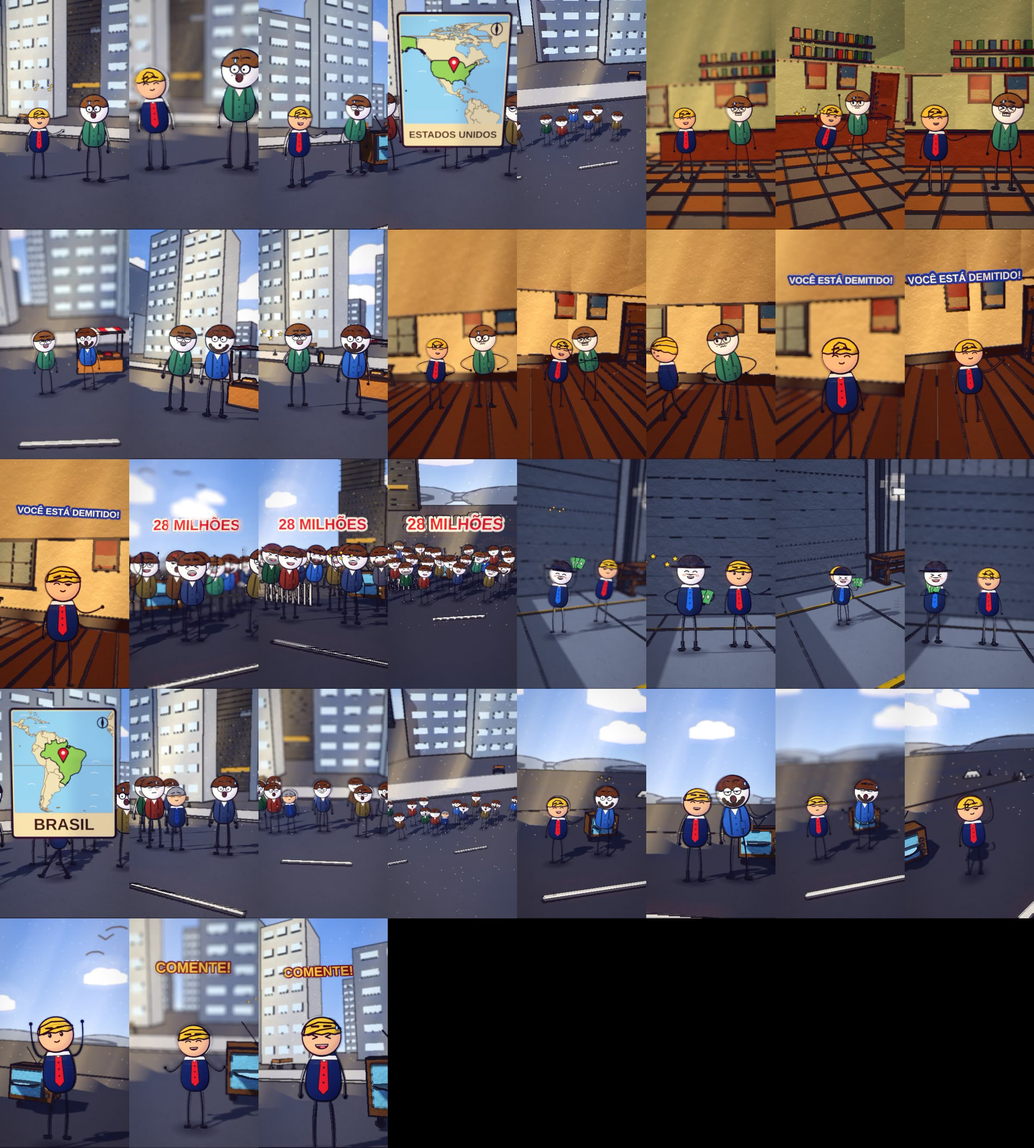
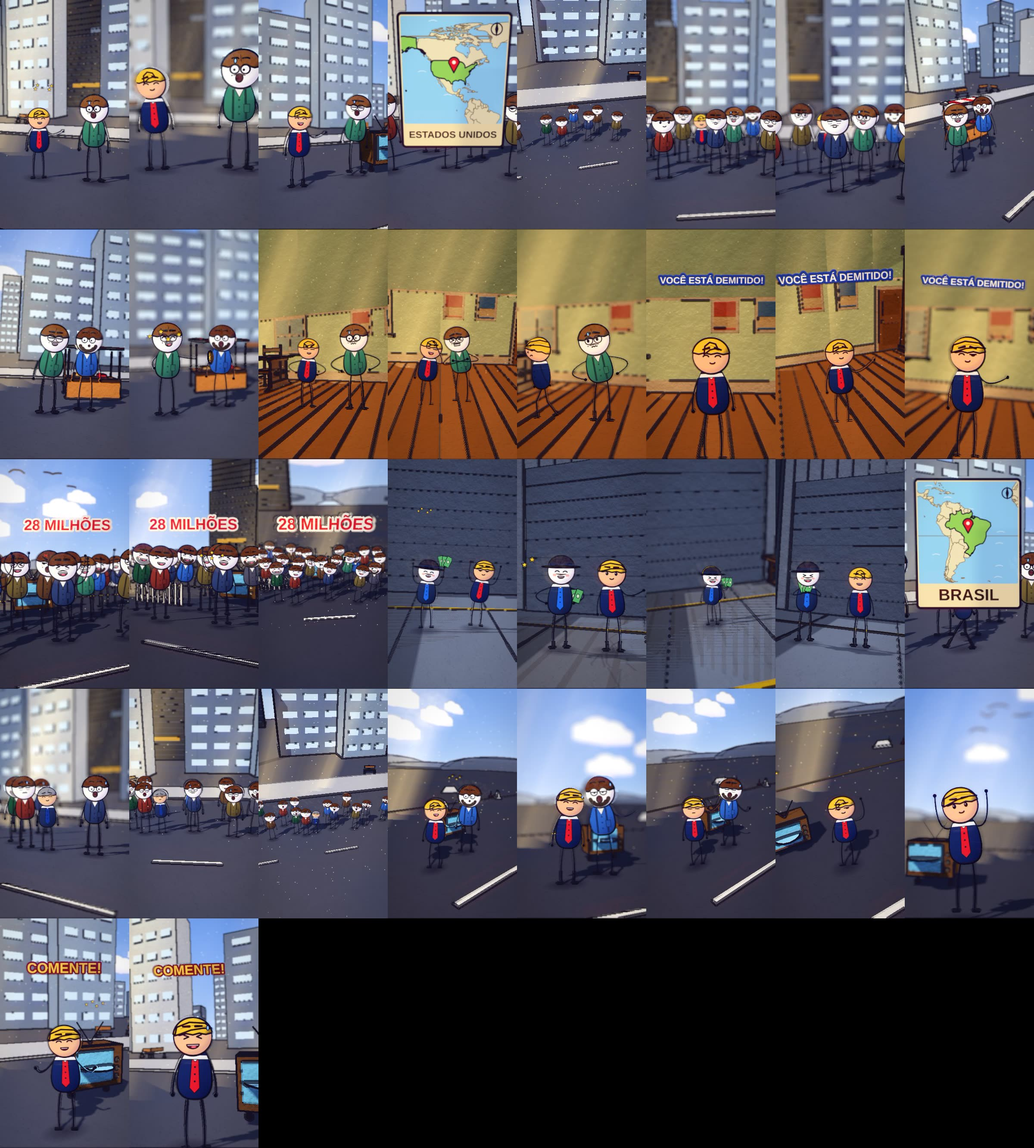
aprendiz2004: storyboard aprovado
Claude-Session: https://claude.ai/code/session_01HE8Dy2wiQov2uhW6ZYikBX

diff --git a/ferramenta-shorts/web/story.js b/ferramenta-shorts/web/story.js
@@ -51,6 +51,7 @@ const SPEC = {
 };
 
 // FOLHA3 e6951295b32f 34 acoes=34 faltando=0
+SPEC.fit = {"b6":1.254,"b6_1":1.12,"b8":1.254,"b8_1":1.12};
 // ===== STORY RUNTIME (generic): turns a declarative SPEC (stories/<id>.spec.js, concatenated before this file) into the story.js interface the engine expects =====
 import { camFromKeys, clamp, lerp, ramp, q, blinkAt, idle, M } from './motion.js';
 export const FPS = 30, TOTAL = SPEC.total, DECK = 6;

diff --git a/ferramenta-shorts/stories/aprendiz2004/fit.js b/ferramenta-shorts/stories/aprendiz2004/fit.js
@@ -1,0 +1,1 @@
+SPEC.fit = {"b6":1.254,"b6_1":1.12,"b8":1.254,"b8_1":1.12};

diff --git a/ferramenta-shorts/stories/aprendiz2004/revisao_storyboard.md b/ferramenta-shorts/stories/aprendiz2004/revisao_storyboard.md
@@ -1,0 +1,13 @@
+pesquisa: o quadro de referencias mostra Donald Trump de terno azul-marinho e gravata vermelha com cabelo loiro, Roberto Justus de cabelo grisalho e terno, barraca de limonada com cerca branca e prancheta; comparei com Trump loiro de terno azul e gravata vermelha, Justus grisalho de gravata azul, barraca de limonada na rua e sala de reuniao de madeira.
+defeitos procurados: cenario de cidade grande em 2004 e sala de madeira sem objeto fora de epoca; epoca 2004 sem aparelho moderno, TV antiga de tubo; tamanho da TV e da barraca proporcional aos bonecos; ninguem cortado nas bordas; multidao de dezesseis candidatos e de espectadores sem clone de Trump; legenda livre porque textos ficam no alto; acao de cada verbo aparece e ninguem cai sem motivo; objeto heroi TV aparece nas cenas de audiencia e de Trump.
+b0: OK - duas palavras transformaram um empresario de Nova York numa estrela mundial: Trump loiro de gravata vermelha ao lado de um candidato surpreso em rua de arranha-ceus.
+b1: OK - em janeiro de 2004 estreou nos Estados Unidos o programa O Aprendiz: mapa de Estados Unidos com marcador e grupo de candidatos na rua.
+b2: CORRIGIDO - dezesseis candidatos disputavam um emprego numa empresa de Donald Trump: apareciam so dois personagens numa loja -> plano aberto com dezesseis candidatos de terno ao redor de Trump na rua.
+b3: OK - as equipes faziam uma tarefa de negocios como vender limonada na rua: dois candidatos com barraca de limonada e pasta de executivo na rua.
+b4: CORRIGIDO - a equipe perdedora ia para a sala de reuniao e alguem tinha que ir embora: cena numa loja com prateleiras -> sala de madeira com Trump serio e candidato nervoso.
+b5: OK - o jeito de eliminar virou a marca do programa: Trump em close na sala de madeira com o texto VOCE ESTA DEMITIDO no alto, longe da legenda.
+b6: OK - a final foi vista por cerca de vinte e oito milhoes de americanos: multidao de espectadores de terno com texto 28 MILHOES e TV ao fundo.
+b7: OK - o vencedor Bill Rancic ganhou o emprego com salario de duzentos e cinquenta mil dolares: Rancic e Trump sorrindo com notas de dolar na mao.
+b8: CORRIGIDO - no Brasil O Aprendiz estreou com Roberto Justus: o apresentador brasileiro nao aparecia -> Justus grisalho de gravata azul entre espectadores, com mapa do Brasil.
+b9: OK - Trump apresentou o programa por mais de dez anos e so deixou em 2015: Trump de terno azul ao lado de um espectador e uma TV antiga.
+b10: OK - um programa de emprego que acabou famoso por demitir: Trump sorrindo de bracos erguidos com a TV ao lado e depois a chamada COMENTE.

diff --git a/ferramenta-shorts/stories/aprendiz2004/cronograma.md b/ferramenta-shorts/stories/aprendiz2004/cronograma.md
@@ -1,6 +1,6 @@
 # CRONOGRAMA - Poder e Fama EP 13 - Você Está Demitido
 
-Gerado em 24/11 10:12 | 12 cenas | metricas: acoes_encenadas 100%, acoes_chave_com_efeito 100%, explicacoes_cobertas 100%, cenario_e_epoca_ok 100%
+Gerado em 24/11 10:15 | 12 cenas | metricas: acoes_encenadas 100%, acoes_chave_com_efeito 100%, explicacoes_cobertas 100%, cenario_e_epoca_ok 100%
 
 ## 1. Plano de cenas (o que cada frase vai mostrar)
 
@@ -28,15 +28,15 @@ N | Etapa | O que confere | Estado | Proximo passo
 3 | Modelagem do que falta | todo objeto das cenas existe na biblioteca 3D, da epoca e no tamanho real | FEITO | 
 4 | Travas do roteiro | folha 2 com 0 risco e folha 3 com 0 acao faltando (riscos agora: 0) | FEITO | 
 5 | Voz | narracao neural gerada e tempos por palavra | FEITO | 
-6 | Estilo e enquadramento | autoajuste de luz/cor e ajuste de camera de cada tomada | PENDENTE | 
-7 | Gates | camera OK, todas as tomadas OK, estilo OK | BLOQUEADO (etapa anterior pendente) | 
-8 | Storyboard e grade de acoes | video inteiro em quadros + 1 quadro no instante de cada acao | BLOQUEADO (etapa anterior pendente) | 
-9 | Revisao escrita e aprovacao | uma linha por frase conferindo com a folha 3 e com o quadro da pesquisa | BLOQUEADO (etapa anterior pendente) | ./aprovar_storyboard.sh aprendiz2004
+6 | Estilo e enquadramento | autoajuste de luz/cor e ajuste de camera de cada tomada | FEITO | 
+7 | Gates | camera OK, todas as tomadas OK, estilo OK | FEITO | 
+8 | Storyboard e grade de acoes | video inteiro em quadros + 1 quadro no instante de cada acao | FEITO | 
+9 | Revisao escrita e aprovacao | uma linha por frase conferindo com a folha 3 e com o quadro da pesquisa | PENDENTE | ./aprovar_storyboard.sh aprendiz2004
 10 | Render | todos os quadros renderizados nesta versao das folhas | BLOQUEADO (etapa anterior pendente) | 
 11 | Montagem e som | trechos + voz + musica + efeitos; volume normalizado | BLOQUEADO (etapa anterior pendente) | 
 12 | Conferencia | conferir.sh sem falha e folha de contato olhada | BLOQUEADO (etapa anterior pendente) | ./conferir.sh aprendiz2004
 13 | Auditoria das acoes | 1 quadro do mp4 em cada palavra de acao | BLOQUEADO (etapa anterior pendente) | bash auditar_acoes.sh local aprendiz2004 <mp4>
 14 | Entrega | mp4 original 1080x1920 enviado; commit e push | BLOQUEADO (etapa anterior pendente) | 
 
-**Etapa atual:** 6. Estilo e enquadramento
+**Etapa atual:** 9. Revisao escrita e aprovacao
 
